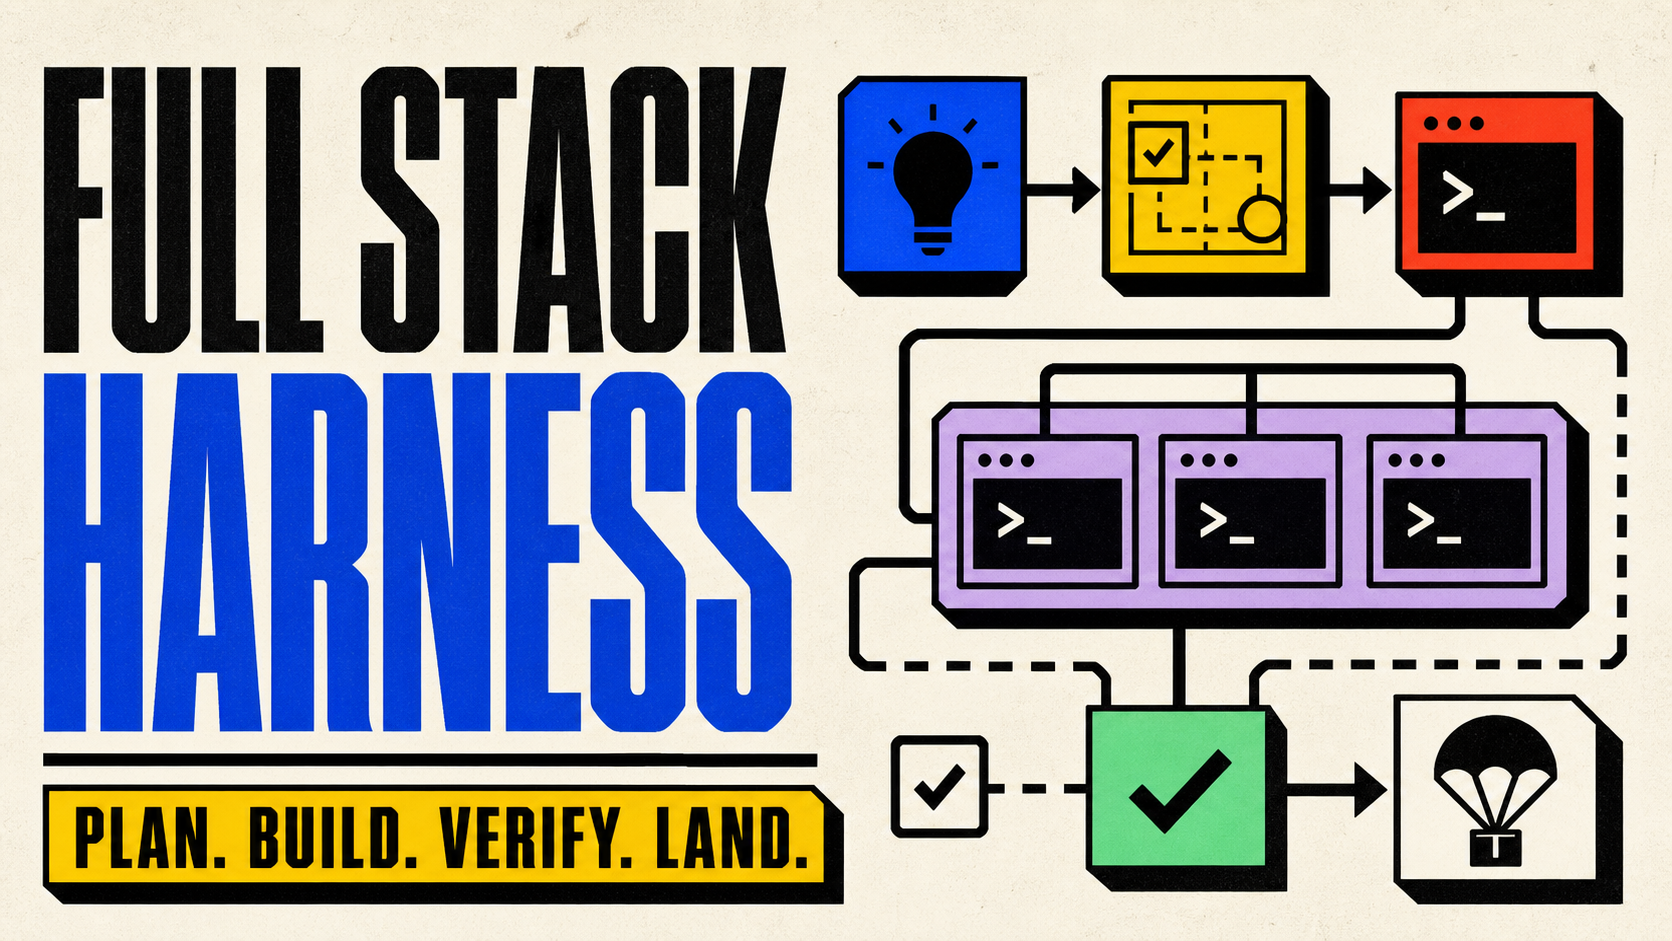
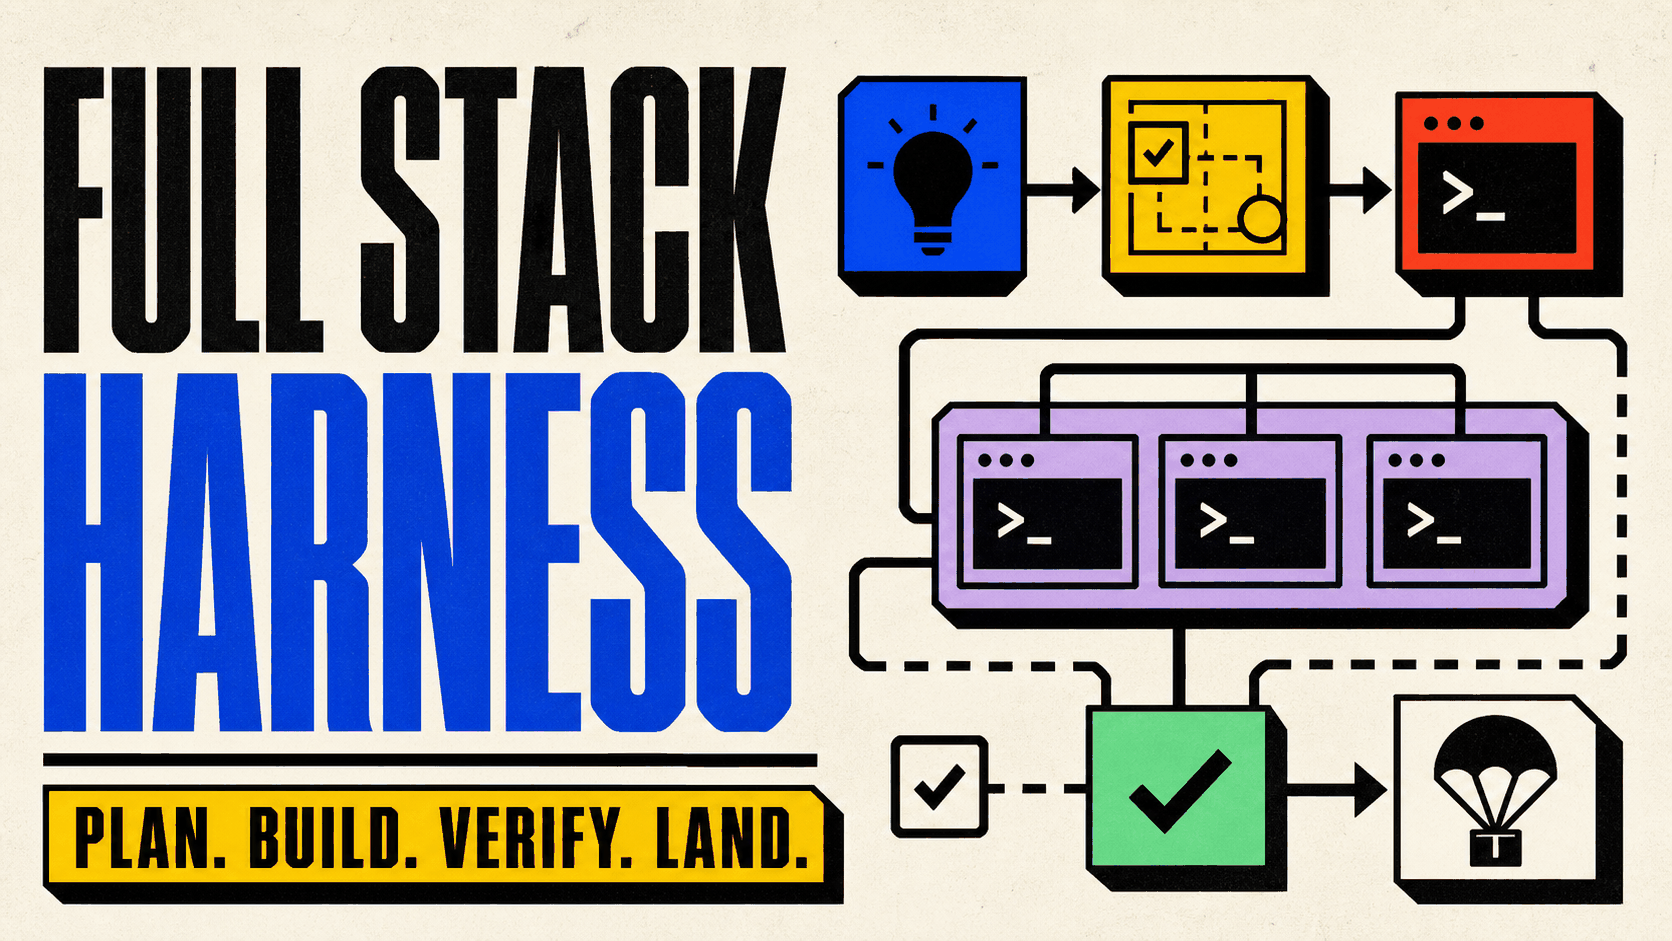
docs(readme): slim assets and align translations
Task: DIRECT/readme-maintenance
Trace: HARNESS
Verified: README structure test (1 test passed); engineering suite (473 tests passed)

Changed region(s): [[0.311, 0.8937, 0.3421, 0.9245]]

diff --git a/.agents/skills/fullstack-harness-engineering/scripts/tests/test_readme_structure.py b/.agents/skills/fullstack-harness-engineering/scripts/tests/test_readme_structure.py
@@ -1,0 +1,69 @@
+import re
+import unittest
+from pathlib import Path
+
+
+def find_repo_root(start: Path) -> Path | None:
+    for candidate in (start, *start.parents):
+        if (
+            (candidate / ".agents" / "plugins" / "marketplace.json").is_file()
+            and (candidate / "scripts" / "sync_plugin_skills.py").is_file()
+        ):
+            return candidate
+    return None
+
+
+REPO_ROOT = find_repo_root(Path(__file__).resolve().parent)
+
+
+class ReadmeStructureTests(unittest.TestCase):
+    def structure_profile(self, path: Path) -> dict[str, object]:
+        lines = path.read_text(encoding="utf-8").splitlines()
+        headings = [
+            (index, len(match.group(1)))
+            for index, line in enumerate(lines)
+            if (match := re.match(r"^(#{1,6})\s+\S", line))
+        ]
+        fence_lines = sum(1 for line in lines if line.startswith("```"))
+        self.assertEqual(fence_lines % 2, 0, f"unclosed fence in {path.name}")
+
+        section_starts = [0, *(index for index, _level in headings)]
+        section_counts = []
+        for section_index, start in enumerate(section_starts):
+            end = (
+                section_starts[section_index + 1]
+                if section_index + 1 < len(section_starts)
+                else len(lines)
+            )
+            body = lines[start:end]
+            if section_index:
+                body = body[1:]
+            section_counts.append(
+                (
+                    sum(bool(line.strip()) for line in body),
+                    sum(
+                        bool(re.match(r"^\s*(?:[-*+] |\d+\. )", line))
+                        for line in body
+                    ),
+                )
+            )
+
+        return {
+            "heading_order_and_levels": [level for _index, level in headings],
+            "fenced_code_blocks": fence_lines // 2,
+            "section_nonblank_and_bullet_counts": section_counts,
+        }
+
+    @unittest.skipIf(REPO_ROOT is None, "README contract requires a source checkout")
+    def test_translations_preserve_english_structure(self) -> None:
+        english = self.structure_profile(REPO_ROOT / "README.md")
+        for translation in ("README.zh-CN.md", "README.zh-TW.md"):
+            with self.subTest(translation=translation):
+                self.assertEqual(
+                    self.structure_profile(REPO_ROOT / translation),
+                    english,
+                )
+
+
+if __name__ == "__main__":
+    unittest.main()

diff --git a/README.zh-CN.md b/README.zh-CN.md
@@ -87,12 +87,6 @@ Harness 是围绕明确的边界构建的：
 
 对于有计划支撑的工作，它会记录任务范围、依赖关系、工作节点归属、验证命令，以及针对具体动作的授权。一次测试通过并不等于授权推送、开 PR、执行审查动作、合并、部署或清理。
 
-<p align="center">
-  <img src="./assets/fullstack-harness-workflow-neobrutalism.png" alt="Full Stack Harness 从需求输入到本地验证或 GitHub 落地的流程" width="100%">
-</p>
-
-<p align="center"><sub>流程示意图，保留作为概览。这张图早于当前的 schema，上面写的是 PLAN v4／RUN v9，实际请用 PLAN v5／RUN v10；图中也漏了每次集成前都必须通过的 exact-head review，而且 wave 没有固定上限。下方才是当前的流程。</sub></p>
-
 ```mermaid
 flowchart TB
   Intake["Intake: request, repo, instructions"] --> Size{"small or large?"}
@@ -131,6 +125,8 @@ flowchart TB
 共享的脚本、schema、参考文档和模板仍然放在 `fullstack-harness-engineering` 下；各适配器链接到它们，而不是各自附带一套重复的运行时。这样能让默认提示词保持精简，并避免在纯本地工作时进行远程验证。
 
 对于远程交付，最终的本地候选版本只推送一次。GitHub Actions 和 Codex 审查会作为同一个 PR 提交点上的并列门禁被启动或观察，并被并发轮询。一次新的推送会使二者同时失效，合并仍然要求二者在同一个 SHA 上都通过。
+
+只有在仓库已连接到 Codex Cloud，并且已启用代码审查时，Codex Cloud 审查才可用。打开 PR 时可能会自动开始审查；否则，请使用 `@codex review` 请求审查。如果缺少审查能力，请将审查门禁记录为不可用，而不是已通过。
 
 ## 图工程与动态工作流
 
@@ -301,7 +297,7 @@ plugins/fullstack-harness/.claude-plugin/plugin.json Claude Code 插件清单
 plugins/fullstack-harness/.codex-plugin/plugin.json  Codex 插件清单
 .agents/plugins/marketplace.json                     Codex 市场定义
 .claude-plugin/marketplace.json                      Claude Code 市场定义
-assets/                                              README 封面和流程图
+assets/                                              README 封面
 scripts/sync_plugin_skills.py                        把规范技能复制到插件包
 scripts/update-private-skills.ps1                    更新已安装的市场和插件
 .github/workflows/harness-ci.yml                     契约、单元和 E2E 检查
@@ -316,6 +312,7 @@ python scripts/sync_plugin_skills.py
 python scripts/sync_plugin_skills.py --check
 python -m unittest discover -s .agents/skills/fullstack-harness-engineering/scripts/tests -v
 python -m unittest discover -s .agents/skills/prd-builder/scripts/tests -v
+python -m unittest discover -s plugins/fullstack-harness/skills/fullstack-harness-engineering/scripts/tests -p "test_packaged_*.py" -v
 git diff --check
 ```
 

diff --git a/README.zh-TW.md b/README.zh-TW.md
@@ -87,12 +87,6 @@ Harness 是圍繞明確的邊界所打造的：
 
 對於有計畫支撐的工作，它會記錄任務範圍、相依關係、worker 歸屬、驗證指令，以及各動作專屬的授權。測試通過並不代表授權推送、開 PR、審查動作、合併、部署或清理。
 
-<p align="center">
-  <img src="./assets/fullstack-harness-workflow-neobrutalism.png" alt="Full Stack Harness 從需求輸入到本機驗證或 GitHub 落地的流程" width="100%">
-</p>
-
-<p align="center"><sub>流程示意圖，保留作為概覽。這張圖早於目前的 schema，上面寫的是 PLAN v4／RUN v9，實際請用 PLAN v5／RUN v10；圖中也漏了每次整合前都必須通過的 exact-head review，而且 wave 沒有固定上限。下方才是目前的流程。</sub></p>
-
 ```mermaid
 flowchart TB
   Intake["Intake: request, repo, instructions"] --> Size{"small or large?"}
@@ -131,6 +125,8 @@ flowchart TB
 共用的 script、schema、參考文件與範本仍放在 `fullstack-harness-engineering` 底下；轉接器只是連結到它們，而不會各自夾帶重複的執行環境。這讓預設提示詞維持精簡，也避免在純本機工作時觸發遠端驗證。
 
 在遠端交付時，最終的本機候選版本只推送一次。GitHub Actions 與 Codex 審查會作為同一個 PR head 的並列閘一起啟動或被觀察，並且並行輪詢。任何新的推送都會讓兩者失效，而合併仍要求兩者在同一個 SHA 上都通過。
+
+只有在儲存庫已連接到 Codex Cloud，並且已啟用程式碼審查時，Codex Cloud 審查才可用。開啟 PR 時可能會自動開始審查；否則，請使用 `@codex review` 要求審查。如果缺少審查能力，請將審查閘記錄為不可用，而不是已通過。
 
 ## 圖引擎與 Dynamic Workflow
 
@@ -301,7 +297,7 @@ plugins/fullstack-harness/.claude-plugin/plugin.json Claude Code 外掛 manifest
 plugins/fullstack-harness/.codex-plugin/plugin.json  Codex 外掛 manifest
 .agents/plugins/marketplace.json                     Codex 市集定義
 .claude-plugin/marketplace.json                      Claude Code 市集定義
-assets/                                              README 封面與流程圖
+assets/                                              README 封面
 scripts/sync_plugin_skills.py                        把標準技能複製進外掛套件
 scripts/update-private-skills.ps1                    更新已安裝的市集與外掛
 .github/workflows/harness-ci.yml                     契約、單元與 E2E 檢查
@@ -316,6 +312,7 @@ python scripts/sync_plugin_skills.py
 python scripts/sync_plugin_skills.py --check
 python -m unittest discover -s .agents/skills/fullstack-harness-engineering/scripts/tests -v
 python -m unittest discover -s .agents/skills/prd-builder/scripts/tests -v
+python -m unittest discover -s plugins/fullstack-harness/skills/fullstack-harness-engineering/scripts/tests -p "test_packaged_*.py" -v
 git diff --check
 ```
 

diff --git a/README.md b/README.md
@@ -87,12 +87,6 @@ The Harness is built around explicit boundaries:
 
 For plan-backed work, it records task scope, dependencies, worker ownership, verification commands, and action-specific authorization. A passing test does not authorize a push, PR, review action, merge, deploy, or cleanup.
 
-<p align="center">
-  <img src="./assets/fullstack-harness-workflow-neobrutalism.png" alt="Full Stack Harness workflow from intake through verified local or GitHub landing" width="100%">
-</p>
-
-<p align="center"><sub>Illustrated control flow, kept for orientation. It predates the current schemas and shows PLAN v4 / RUN v9; author PLAN v5 / RUN v10. It also omits the exact-head review that is required before every integration, and no wave is capped at a fixed number. The flow below is the current one.</sub></p>
-
 ```mermaid
 flowchart TB
   Intake["Intake: request, repo, instructions"] --> Size{"small or large?"}
@@ -303,7 +297,7 @@ plugins/fullstack-harness/.claude-plugin/plugin.json Claude Code plugin manifest
 plugins/fullstack-harness/.codex-plugin/plugin.json  Codex plugin manifest
 .agents/plugins/marketplace.json                     Codex marketplace definition
 .claude-plugin/marketplace.json                      Claude Code marketplace definition
-assets/                                              README covers and workflow illustrations
+assets/                                              README covers
 scripts/sync_plugin_skills.py                        Copies canonical skills into the plugin bundle
 scripts/update-private-skills.ps1                    Updates installed marketplaces and plugin
 .github/workflows/harness-ci.yml                     Contract, unit, and E2E checks
@@ -318,6 +312,7 @@ python scripts/sync_plugin_skills.py
 python scripts/sync_plugin_skills.py --check
 python -m unittest discover -s .agents/skills/fullstack-harness-engineering/scripts/tests -v
 python -m unittest discover -s .agents/skills/prd-builder/scripts/tests -v
+python -m unittest discover -s plugins/fullstack-harness/skills/fullstack-harness-engineering/scripts/tests -p "test_packaged_*.py" -v
 git diff --check
 ```
 
